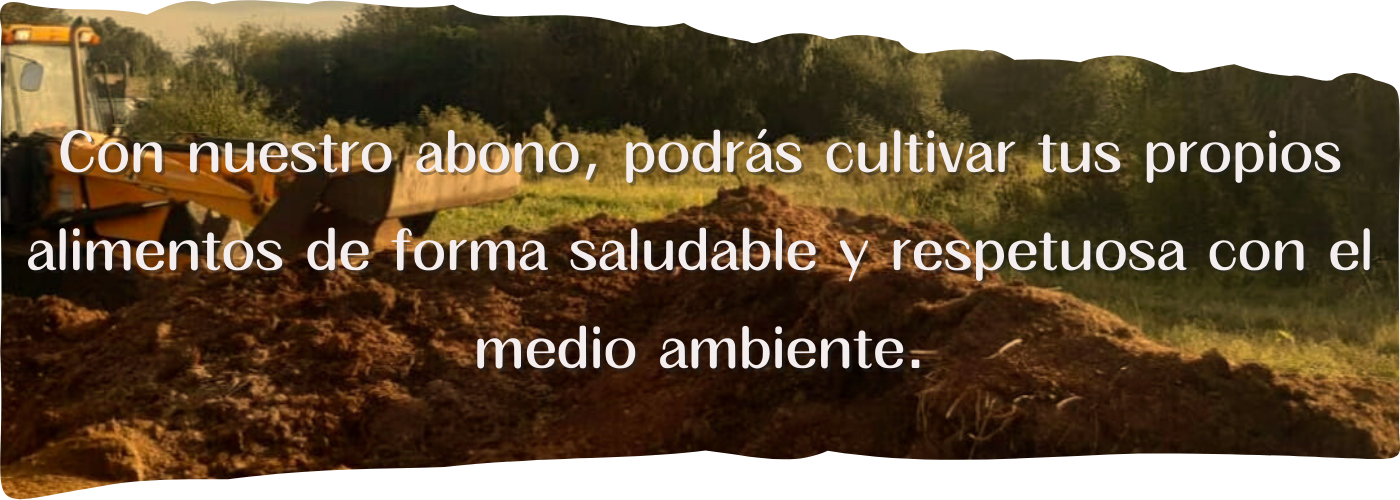
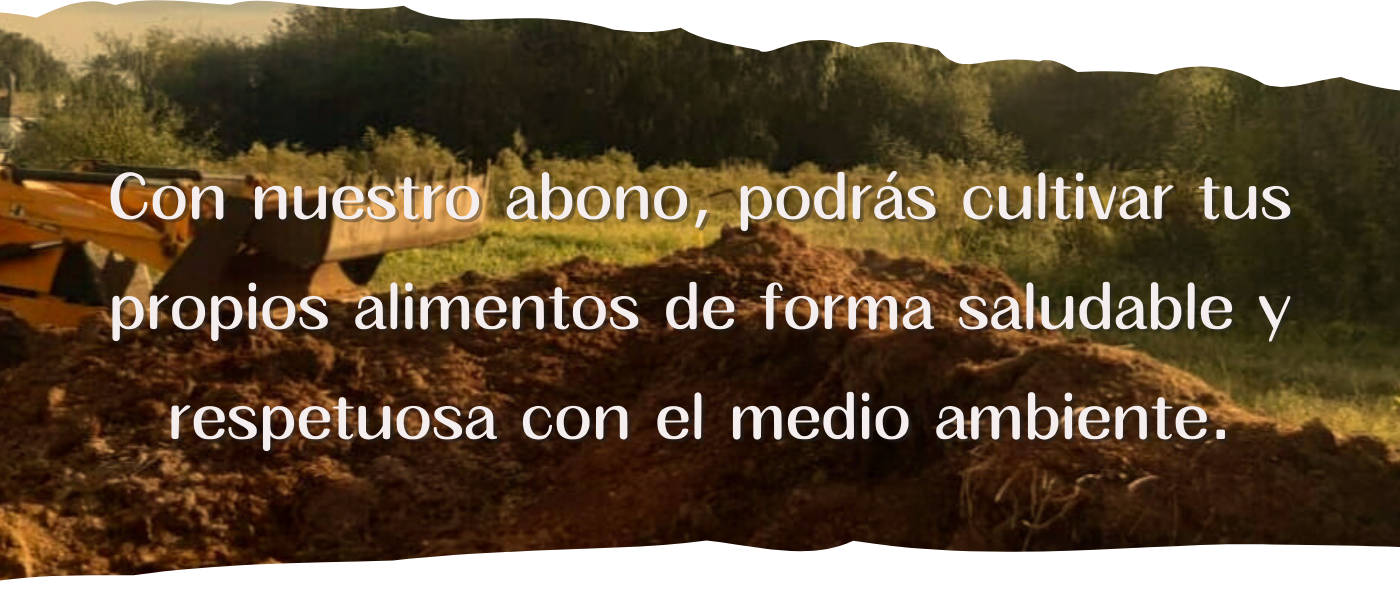
aver

diff --git a/index.html b/index.html
@@ -57,7 +57,7 @@
     </nav>
     <!-- Element to contain animated typing MAQUINA DE ESCRIBIR-->
     <div id="frase-inicio">
-        <p id="element" class="text-center mt-5"></p>
+        <p id="element" class="text-center my-5"></p>
     </div>
 
 
@@ -65,7 +65,7 @@
     <div class="">
         <img src="img/vida.index.png" width="100%">
     </div>
-    <div id="parrafo-inicio" class="text-center">
+    <div id="parrafo-inicio2" class="text-center">
         <p><i>La sustentabilidad<br> es la capacidad que tienen las sociedades para
                 usar sus recursos <br>de forma responsable y consciente, <br>evitando que se agoten <br>o que se dañe el
                 ecosistema durante el proceso.</i></p>
@@ -80,7 +80,7 @@
     <div class="">
         <img src="img/vida.index.2.png" width="100%">
     </div>
-    <div id="parrafo-inicio">
+    <div id="parrafo-inicio2">
         <p class="text-center mt-5"><i>Enterate de más detalles de nuestros abonos <br>y de porque te conviene pasarte al
                 mundo orgánico<br> en nuestra sección:</i>
                 <br><br>

diff --git a/index.js b/index.js
@@ -13,6 +13,16 @@ document.addEventListener('DOMContentLoaded', () => {
 
 
 
-
-// de
-  //          
+function ajustarAltoParrafo() {
+    const parrafo = document.getElementById('parrafo-inicio2'); // Reemplaza 'miParrafo' por el ID de tu párrafo
+    const anchoPantalla = window.innerWidth;
+  
+    // Ajusta los valores de ancho y alto según tus necesidades
+    if (anchoPantalla <= 768) { // Ajusta el ancho máximo para pantallas pequeñas
+      parrafo.style.height = '600px'; // Establece el alto deseado para pantallas pequeñas
+    } else {
+      parrafo.style.height = '400px'; // Permite que el alto se ajuste automáticamente en pantallas grandes
+    }
+  }    
+  
+  ajustarAltoParrafo();

diff --git a/index.css b/index.css
@@ -55,19 +55,32 @@ body {
   }
 }
 
-#element,
-#parrafo-inicio {
+
+
+#element {
   color: var(--marron);
-  font-size: 2rem;
+  font-size: 2.2rem;
+
+}
+
+#parrafo-inicio, #parrafo-inicio2 {
+  color: var(--marron);
+  font-size: 1.5rem;
 
 }
 
 #frase-inicio {
-  height: 200px;
+  height: 250px;
 }
 
 #parrafo-inicio {
   height: 400px;
+  display: flex;
+  align-items: center;
+  justify-content: center;
+  margin: 10px;
+}
+#parrafo-inicio2 {
   display: flex;
   align-items: center;
   justify-content: center;
